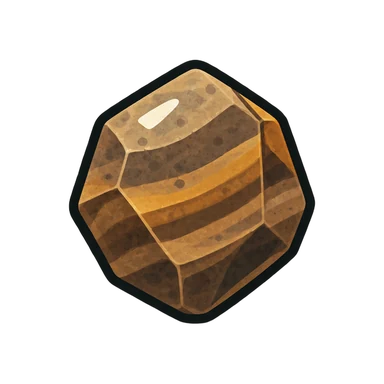
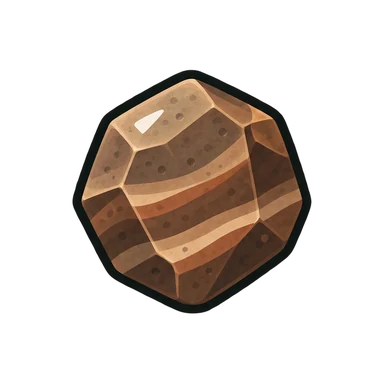
v2026.10.133: earth gems redrawn in brown/terracotta so they don't look like metal gems
Claude-Session: https://claude.ai/code/session_016qs5P8iCHLFro2wJwMCrvv

Changed region(s): [[0.1562, 0.1562, 0.8438, 0.8438]]

diff --git a/index.html b/index.html
@@ -3015,7 +3015,7 @@ function devPanel(){
     ${devErrHtml()}
     <button class="btn" data-act="devexit" style="background:var(--bad)">${T("devExit")}</button></section>`;
 }
-const APP_VERSION="2026.10.132";
+const APP_VERSION="2026.10.133";
 const SUPPORT_ON=false;   // 「贊助開發者」card: hidden until the official release (still shown in developer mode for preview)   // 年份.月份.版號 — bump the build number on every release, reset to 1 each new month
 function devFooter(){
   return `<div class="dev-foot"><button class="ver" data-act="devtap">${T("version")} ${APP_VERSION}</button>
